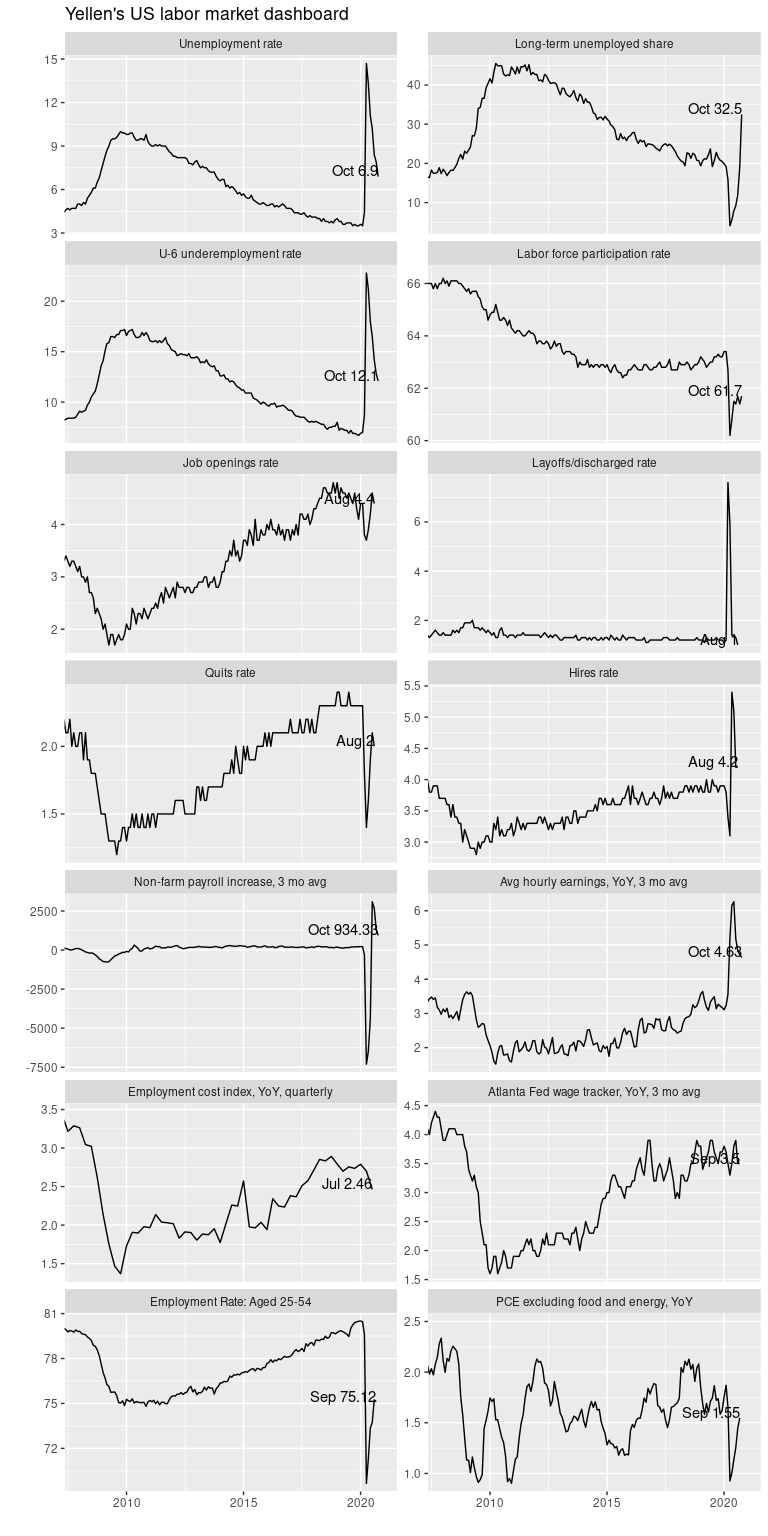
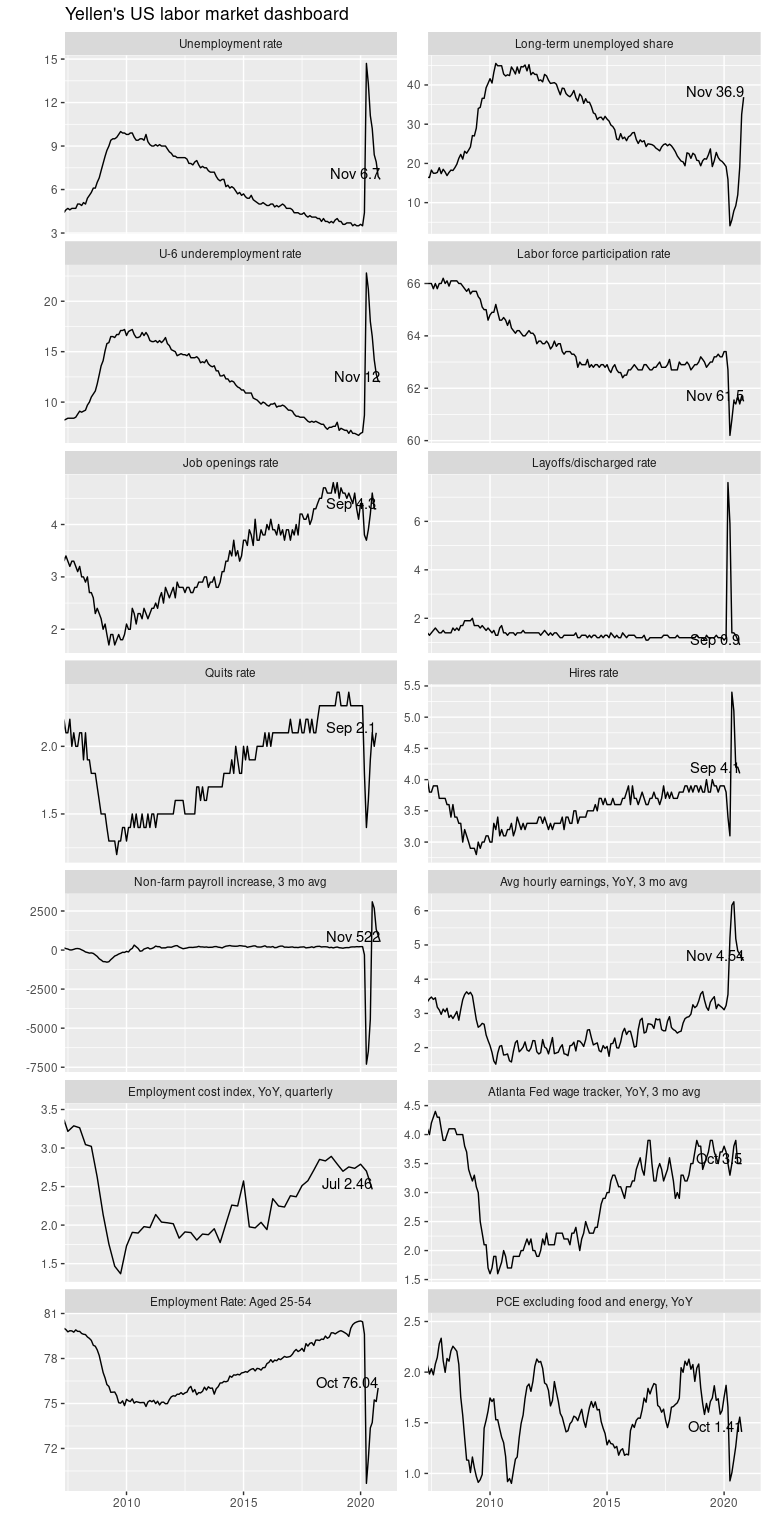
update November 2020 employment

diff --git a/README.md b/README.md
@@ -14,7 +14,7 @@ Mitsuo Shiota
   - [Prepare for the plot](#prepare-for-the-plot)
   - [Dashboard](#dashboard)
 
-Updated: 2020-11-10
+Updated: 2020-12-05
 
 ## Summary
 
